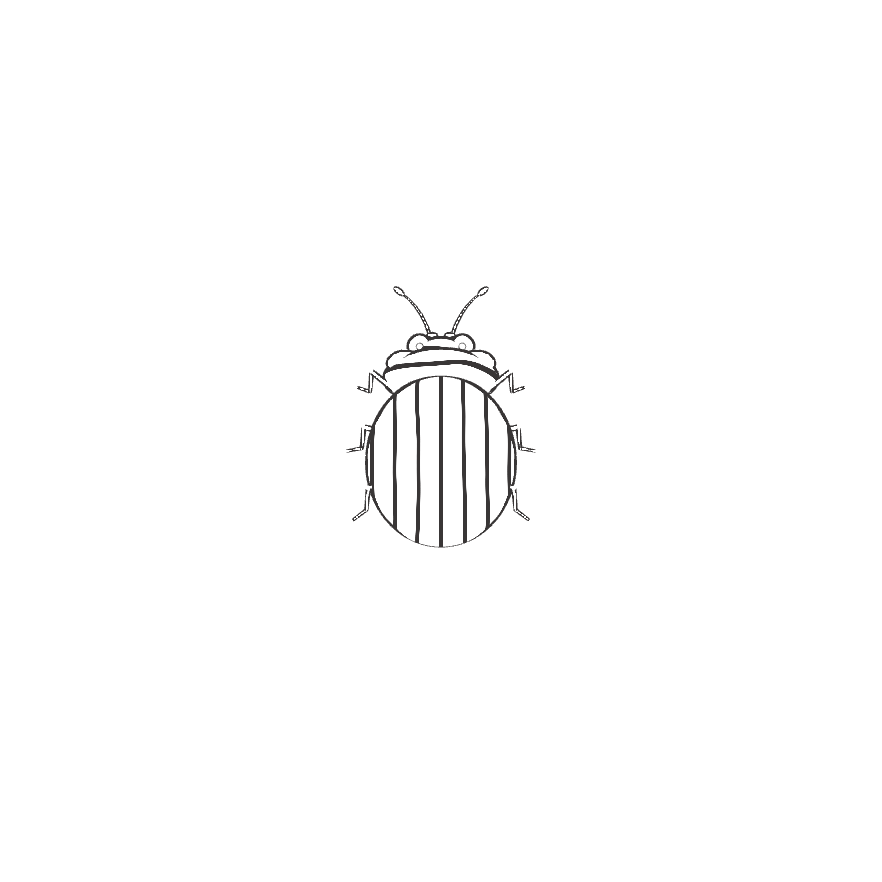
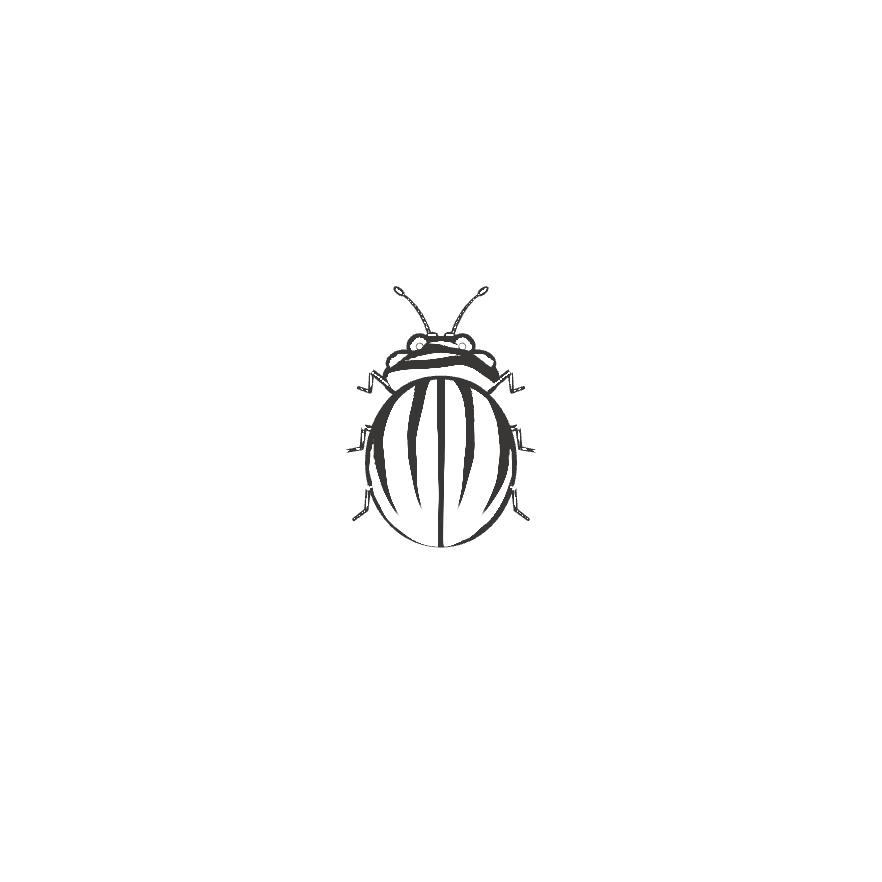
Nyrro back to the 3D beetle with all its movement (wings, flight, walking, the assistant), now drawn with the earlier drawing's brush: bold strokes that swell and taper, stripes curving with the wing cases

Changed region(s): [[0.398, 0.3673, 0.5816, 0.6122]]

diff --git a/components/copilot/beetle3d.ts b/components/copilot/beetle3d.ts
@@ -15,11 +15,11 @@ export type BeetlePose = {
   flying: boolean;
   settle?: number; // 0 … 1: eases every living movement away, into the icon's resting pose (the loader, as it lands)
 };
-export type Beetle3D = { pose: (p: BeetlePose) => void; dispose: () => void; canvas: HTMLElement; still: () => string };
+export type Beetle3D = { pose: (p: BeetlePose) => void; dispose: () => void; canvas: HTMLCanvasElement; still: () => string };
 
 /** One drawing everywhere (loader, header icon, assistant): the weight of its pen, for a beetle 64 px tall. A smaller
  * beetle is drawn with a pen in proportion, so it is the same drawing, only smaller. */
-export const BEETLE_LINE = 0.95; // a fine ink line, as in a naturalist's notebook sketch
+export const BEETLE_LINE = 1.8; // the earlier drawing's brush: a bold ink stroke
 const penFor = (size: number) => BEETLE_LINE * (size / 64);
 
 type P2 = [number, number];
@@ -65,8 +65,8 @@ function sketchedWing(THREE: typeof THREE_NS, rgb: [number, number, number], siz
       const t = i / (q.length - 2);
       // pressure: light at the start, full in the middle, lifting off at the end, a little unsteady
       // the pen lifts now and then (a small gap) and presses harder or lighter along the line
-      void t;
-      g.lineWidth = Math.max(0.5, pen * 0.6); // the same fine width as every other line
+      // the earlier drawing's brush: light at each end, swelling in the middle, a little uneven
+      g.lineWidth = Math.max(0.6, pen * 0.85 * (0.22 + 0.78 * Math.pow(Math.sin(Math.PI * Math.min(1, t * 0.94 + 0.03)), 0.5)) * (1 + 0.18 * Math.sin(t * 9 + seed)));
       g.beginPath();
       g.moveTo(q[i][0], q[i][1]);
       g.lineTo(q[i + 1][0], q[i + 1][1]);
@@ -100,17 +100,8 @@ const hexRgb = (h: string): [number, number, number] => {
   return [((n >> 16) & 255) / 255, ((n >> 8) & 255) / 255, (n & 255) / 255];
 };
 
-/**
- * Mounts Nyrro centred on `box` (the roaming beetle's own element, which turns it to its heading): the hand-drawn ink beetle
- * (inkBeetle.ts), with its wings and its turns in depth. The earlier 3D model is kept below as mountBeetleModel.
- */
+/** Mounts the beetle as a canvas centred on `box` (the roaming beetle's own element, which turns it to its heading). */
 export async function mountBeetle3D(box: HTMLElement, opts: { size: number; ink: string; pr?: number }): Promise<Beetle3D | null> {
-  const { mountInkBeetle } = await import("./inkBeetle");
-  return mountInkBeetle(box, { size: opts.size, ink: opts.ink, frame: beetleCanvas(opts.size) });
-}
-
-/** The earlier 3D model of the beetle (not in use). */
-export async function mountBeetleModel(box: HTMLElement, opts: { size: number; ink: string; pr?: number }): Promise<Beetle3D | null> {
   const [THREE, film] = await Promise.all([import("three"), import("@/components/home/HeroFilm")]);
   const { buildBeetle, stippledWing, WING, BODY } = film;
 
@@ -153,7 +144,7 @@ export async function mountBeetleModel(box: HTMLElement, opts: { size: number; i
 
   // drawn with the film's pen: each line swells and tapers, as a sketch; the swell belongs to the beetle (objPress), so
   // as it flies its lines hold their shape instead of shimmering, and the wings stay drawn as they turn (edge)
-  const sk = { time: { value: 0 }, fogNear: { value: 60 }, fogFar: { value: 90 }, px: { value: pr * penFor(opts.size) }, ink: { value: new THREE.Vector3(...ink) }, even: { value: 1 }, objPress: { value: 0 }, edge: { value: new THREE.Vector2(0.0, 0.06) }, meridAng: { value: 0 }, backLines: { value: 1 }, waver: { value: 0.1 }, sketch: { value: 1 } };
+  const sk = { time: { value: 0 }, fogNear: { value: 60 }, fogFar: { value: 90 }, px: { value: pr * penFor(opts.size) }, ink: { value: new THREE.Vector3(...ink) }, even: { value: 1 }, objPress: { value: 0 }, edge: { value: new THREE.Vector2(0.0, 0.06) }, meridAng: { value: 1 }, backLines: { value: 1 }, waver: { value: 0.16 }, sketch: { value: 1 } };
   // the film's dust is sized for a beetle five times this one (its model drawn at scale 5): scaled to match, so each mote is
   // as fine against its body as in the film
   const proj = (C * pr) / (2 * Math.tan(((FOV / 2) * Math.PI) / 180)) / 5;
@@ -172,7 +163,7 @@ export async function mountBeetleModel(box: HTMLElement, opts: { size: number; i
     if ((o as THREE_NS.Points).isPoints) o.visible = false;
     const m = (o as THREE_NS.Mesh).material as THREE_NS.ShaderMaterial | undefined;
     // few, clear lines, as in the logo: four grooves on each case, four rings on the head and shield, four bands on the belly
-    if (m && m.isShaderMaterial && m.uniforms?.merid?.value === 6) m.uniforms.merid.value = 8; // evenly spaced straight grooves down each wing cover, not stripes
+    if (m && m.isShaderMaterial && m.uniforms?.merid?.value === 6) m.uniforms.merid.value = 4; // long stripes that curve with the wing case, as in the earlier drawing
     // one pen for every line: the outline drawn no heavier than the grooves and rings inside it (no bold edges)
     if (m && m.isShaderMaterial && m.uniforms?.weight) m.uniforms.weight.value = 0.75; // the outline the same weight as the lines inside it
     if (m && m.isShaderMaterial && m.uniforms?.rings && (m.uniforms.rings.value === 7 || m.uniforms.rings.value === 3)) m.uniforms.rings.value = 2;
@@ -217,9 +208,7 @@ export async function mountBeetleModel(box: HTMLElement, opts: { size: number; i
     sk.backLines.value = 1 - 0.85 * open;
     // grooves: straight down the wing covers seen from above; as it rolls onto its side they follow the curve of the shell,
     // so from the side too they are a few simple lines, not loops
-    const side = clamp(Math.abs(p.roll), 0, 1);
-    sk.meridAng.value = side;
-    shellMat.uniforms.merid.value = 8 - 4 * side; // the cases keep their lines in every pose: the body is never an empty outline
+    void p.roll; // the stripes curve with the shell in every view, as the earlier drawing's did // the cases keep their lines in every pose: the body is never an empty outline
     wingPhase += dt * Math.PI * 2 * 3.2 * unfold; // a small beetle beats its wings quicker than the film's slow, close one
     const beat = Math.sin(wingPhase) * unfold;
     b.dustMat.uniforms.open.value = unfold;

diff --git a/components/copilot/Moth.tsx b/components/copilot/Moth.tsx
@@ -1,8 +1,7 @@
 "use client";
 
-import { useEffect, useId, useRef, useLayoutEffect } from "react";
+import { useEffect, useId, useRef } from "react";
 import { mountBeetle3D, beetleCanvas, type Beetle3D } from "./beetle3d";
-import { inkBeetleMarkup } from "./inkBeetle";
 
 export const INK = "#e4572e"; // the brand orange: only the AI star
 const PAPER = "#eae7e6"; // its fill: the page background, so it is drawn like the logo, as a line
@@ -368,14 +367,10 @@ export function MothIcon({ size = 28, open = 0, star = true, colors = MOTH_COLOR
  * beetle steps out of one.
  */
 export function BeetleIcon({ size = 24, star = true, className = "", live = false }: { size?: number; star?: boolean; className?: string; live?: boolean }) {
+  const file = size <= 20 ? 20 : 64;
   const C = beetleCanvas(size);
   const boxRef = useRef<HTMLSpanElement>(null);
-  const imgRef = useRef<HTMLSpanElement>(null);
-  // the drawing is put in by the browser (the server's and the browser's sums differ in the last decimal, which React would
-  // report as a mismatch); it is there before the first paint
-  useLayoutEffect(() => {
-    if (imgRef.current) imgRef.current.innerHTML = inkBeetleMarkup(size, BLACK);
-  }, [size]);
+  const imgRef = useRef<HTMLImageElement>(null);
   // `live`: once the page has opened, the icon becomes the 3D beetle itself, alive where it sits: its feelers move and
   // twitch, it grooms with its front legs, its legs shift. It starts in exactly the icon's pose (so the opening lands on
   // the same beetle) and eases into life. Drawn only while it is on screen and the tab is in view, at 30 frames a second.
@@ -435,11 +430,16 @@ export function BeetleIcon({ size = 24, star = true, className = "", live = fals
   }, [live, size]);
   return (
     <span ref={boxRef} className={className} style={{ position: "relative", display: "inline-block", width: size * WIDE, height: size, lineHeight: 0 }}>
-      {/* the ink beetle itself, drawn at once (the same drawing the loader and the assistant animate) */}
-      <span
+      {/* eslint-disable-next-line @next/next/no-img-element */}
+      <img
         ref={imgRef}
+        src={`/images/site/nyrro-${file}.png`}
+        alt=""
         aria-hidden="true"
-        style={{ position: "absolute", left: 0, top: 0, width: size * WIDE, height: size, lineHeight: 0, pointerEvents: "none" }}
+        draggable={false}
+        width={C}
+        height={C}
+        style={{ position: "absolute", left: "50%", top: "50%", width: C, height: C, margin: `${-C / 2}px 0 0 ${-C / 2}px`, maxWidth: "none", pointerEvents: "none" }}
       />
       {star && <MothStar size={size} />}
     </span>

diff --git a/components/home/HeroFilm.tsx b/components/home/HeroFilm.tsx
@@ -279,7 +279,9 @@ void main(){
   float ndv = abs(dot(N, V));
   float fw = max(fwidth(ndv), 1e-4);
   // sketch: every line the same fine width, the outline included (one pen for the whole drawing)
-  float wpx = mix(1.7 * weight * pressure * px, 1.45 * px, sketch); // (an edge line reads a little lighter than a line across: drawn a touch wider so they look the same)
+  // sketch: the earlier drawing's brush: each stroke swells and thins along its length (fixed on the beetle, so it holds as it moves)
+  float brush = 0.55 + 0.9 * noise(vObj.xz * 3.4 + vObj.y * 2.6 + 4.1);
+  float wpx = mix(1.7 * weight * pressure * px, 1.45 * px * brush, sketch); // (an edge line reads a little lighter than a line across: drawn a touch wider so they look the same)
   float a = 1.0 - smoothstep(wpx, wpx + 1.0, ndv / fw);
   a *= mix(mix(0.7 + 0.3 * smoothstep(0.15, 0.35, noise(fc * 0.025 + boil * 1.3 + 9.0)), 1.0, even), 1.0, objPress);
   // objPress: the ink is lighter in places, where the pen barely touched (on the beetle itself, so it holds as it moves)
@@ -303,10 +305,10 @@ void main(){
     float tail = mix(1.0, smoothstep(-0.86, -0.5, vObj.z), meridAng);
     // objPress: a clean line, not shaded by the light (shading turns a bunch of lines into a grey patch)
     float lit = mix(0.5 + 0.5 * n, 1.0, max(objPress, even)); // even: one ink, never shaded
-    a = max(a, lineAt(m + jit, mix(1.2 * pressure * px * tail, 0.92 * px, sketch)) * smoothstep(0.03, 0.07, abs(vObj.x)) * lit * stripes * face * inkFlow * smoothstep(0.0, 0.25, tail));
-    a = max(a, lineAt(vObj.x + jit * 0.02, mix(1.6, 0.92, sketch) * px) * stripes * face);
+    a = max(a, lineAt(m + jit, mix(1.2 * pressure * px * tail, 1.25 * px * tail * brush, sketch)) * smoothstep(0.03, 0.07, abs(vObj.x)) * lit * stripes * face * inkFlow * smoothstep(0.0, 0.25, tail));
+    a = max(a, lineAt(vObj.x + jit * 0.02, mix(1.6, 1.1 * brush, sketch) * px) * stripes * face);
   }
-  if (rings > 0.0) a = max(a, lineAt(vObj.z * rings + jit, mix(1.1 * pressure, 1.05, sketch) * px) * mix(0.45 + 0.55 * n, 1.0, max(objPress, even)) * stripes * face * inkFlow);
+  if (rings > 0.0) a = max(a, lineAt(vObj.z * rings + jit, mix(1.1 * pressure, 1.05 * brush, sketch) * px) * mix(0.45 + 0.55 * n, 1.0, max(objPress, even)) * stripes * face * inkFlow);
   // stippled light: fine dots of ink where the light falls, thicker where it is brightest, as in a stipple drawing
   if (hatchAmt > 0.0) {
     vec2 q = fc / 3.2;
